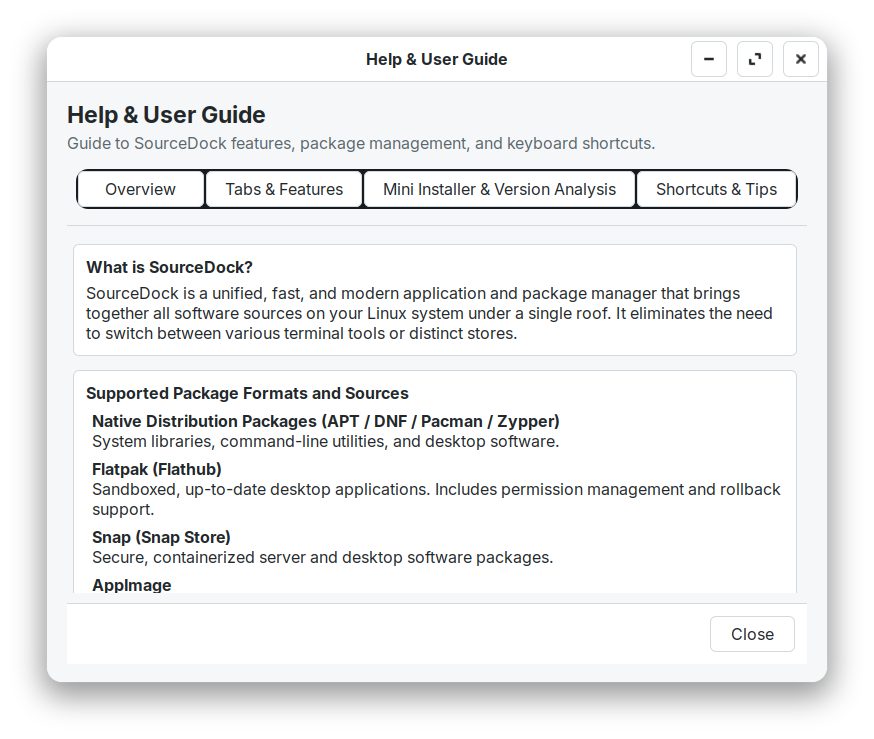
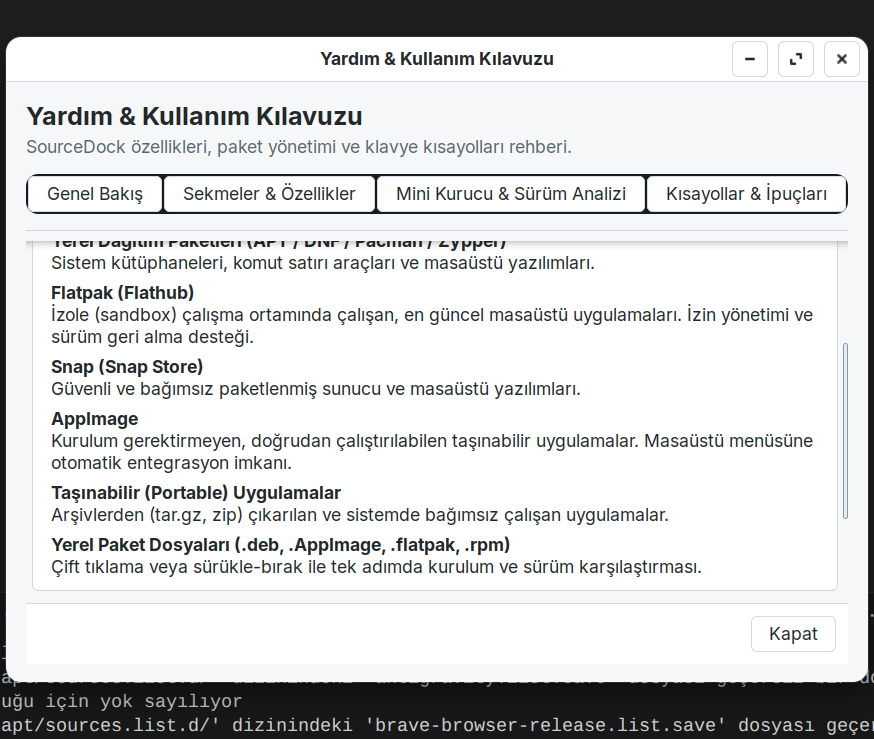
fix(theme): style Help StackSwitcher tabs cleanly in light and dark themes

diff --git a/sourcedock/theme.py b/sourcedock/theme.py
@@ -208,6 +208,11 @@ notebook tab:checked {{ background: @selection; color: @text; border-color: alph
 notebook tab:focus, notebook tab:checked:focus {{ outline: none; box-shadow: none; }}
 notebook tab label {{ color: inherit; }}
 notebook stack, notebook > stack {{ background: @background; }}
+stackswitcher, .help-tabs {{ background: @surface; border: 1px solid @border; border-radius: 10px; padding: 3px; }}
+stackswitcher button:not(.titlebutton), .help-tabs button:not(.titlebutton) {{ background: transparent; border: 1px solid transparent; border-radius: 7px; box-shadow: none; color: @muted; padding: 6px 12px; margin: 0 2px; }}
+stackswitcher button:not(.titlebutton):hover, .help-tabs button:not(.titlebutton):hover {{ background: @surface_hover; color: @text; }}
+stackswitcher button:not(.titlebutton):checked, .help-tabs button:not(.titlebutton):checked {{ background: @selection; border-color: alpha(@focus, 0.35); color: @text; font-weight: bold; box-shadow: none; }}
+stackswitcher button:not(.titlebutton):focus, .help-tabs button:not(.titlebutton):focus {{ outline: none; box-shadow: none; }}
 switch {{ background: @border; border: 1px solid @border; border-radius: 16px; min-width: 44px; min-height: 24px; }}
 switch:checked {{ background: @accent; border-color: shade(@accent, 0.9); }}
 switch slider {{ background: #ffffff; border: 1px solid @border; border-radius: 50%; }}

diff --git a/sourcedock/ui/views/help_view.py b/sourcedock/ui/views/help_view.py
@@ -84,6 +84,7 @@ class HelpDialog(Gtk.Dialog):
         self.stack.set_transition_duration(200)
 
         switcher = Gtk.StackSwitcher()
+        switcher.get_style_context().add_class("help-tabs")
         switcher.set_stack(self.stack)
         switcher.set_halign(Gtk.Align.CENTER)
         switcher.set_margin_top(6)
